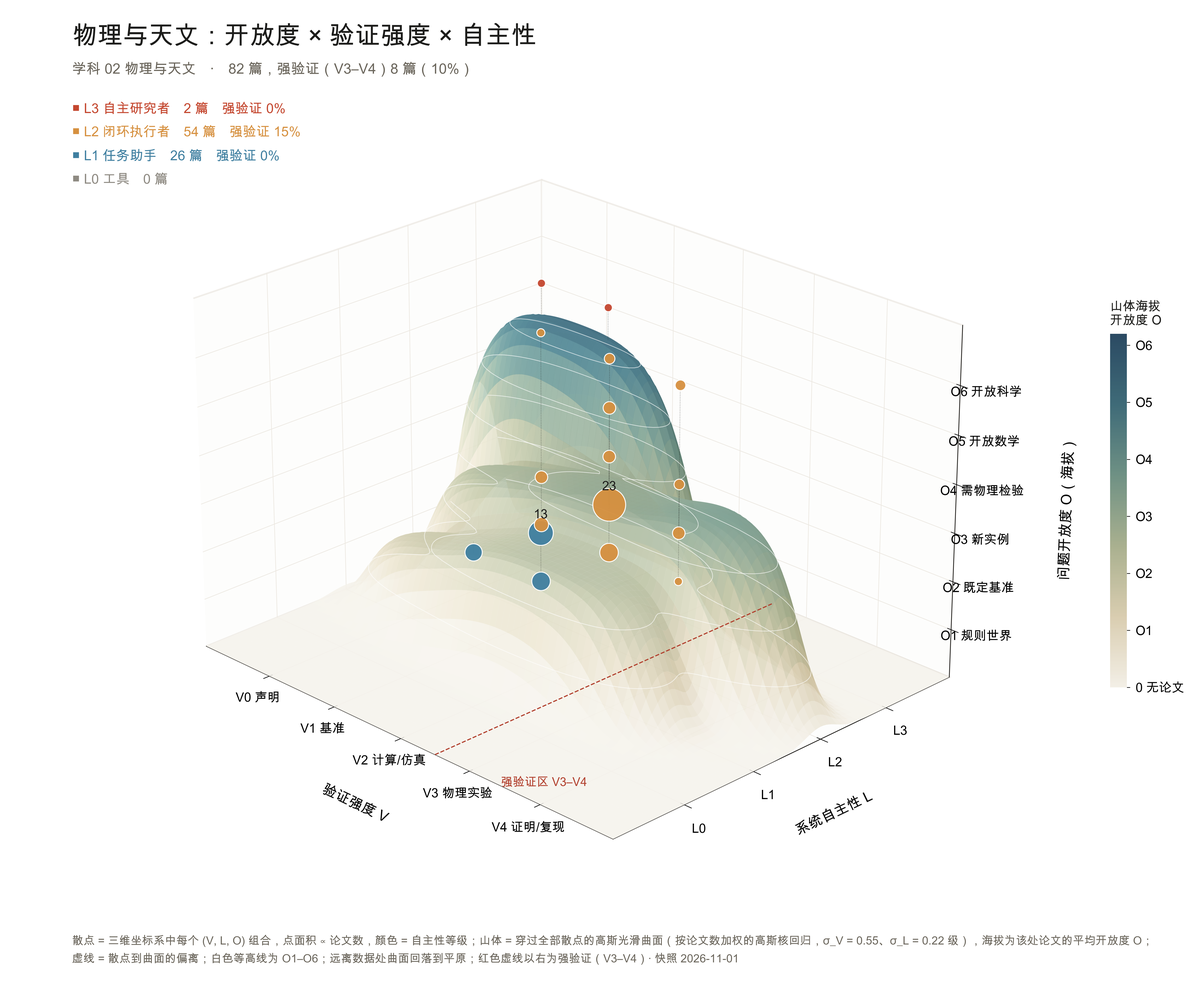
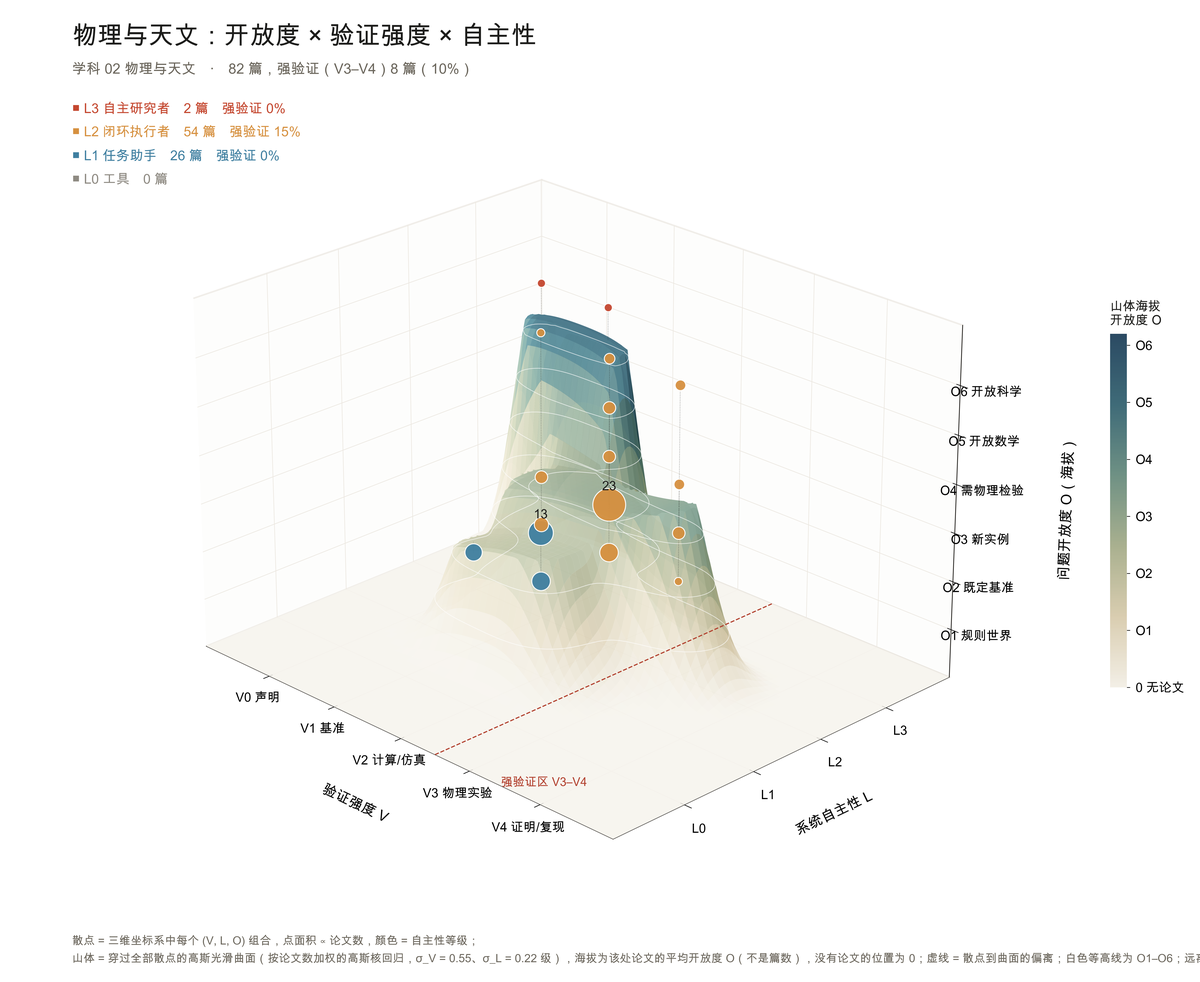
Mountain: no papers means altitude 0, everywhere
Height is mean openness, not a count, so it is undefined where a (V, L)
column has no papers. The surface is now kept only on the support of the
data: a smooth indicator that is 1 on every occupied column and falls
monotonically to ~0 one class away. Empty columns (e.g. L1 at V0 and V4),
all of L0 and the plain beyond V0-V4 therefore sit at 0, with no rebound.
Quantile bands are drawn only over columns with papers. Counts unchanged.

diff --git a/Autonomous Scientific Discovery/Coverage_Check/openness_verification_increment_2026-11-04/scripts/fig_ovl_surface.py b/Autonomous Scientific Discovery/Coverage_Check/openness_verification_increment_2026-11-04/scripts/fig_ovl_surface.py
@@ -55,21 +55,19 @@ def cells(pts):
 
 def height(cell, V, L):
     """The surface through the scatter: Gaussian-kernel (Nadaraya-Watson) mean openness over (V, L), each
-    (V, L, O) point weighted by its papers; far from the data it settles onto the plain at BASE."""
+    (V, L, O) point weighted by its papers; far from the data it settles onto the plain at BASE; empty columns and empty levels sit at BASE."""
     num = np.full(np.shape(V), W0 * BASE, float); den = np.full(np.shape(V), W0, float)
     for (v, l, o), c in cell.items():
         w = c * np.exp(-(V - v) ** 2 / (2 * SIG_S ** 2) - (L - l) ** 2 / (2 * SIG_L ** 2))
         num += w * o; den += w
     z = num / den
-    used = {l for _, l, _ in cell}
-    for e in set(range(4)) - used:                              # an autonomy level with no papers sits at 0,
-        dl = np.asarray(L, float) - e                           # and so does the side of it with no data
-        if all(l > e for l in used):
-            dl = np.clip(dl, 0, None)
-        elif all(l < e for l in used):
-            dl = np.clip(-dl, 0, None)
-        d = np.clip(np.abs(dl) / 0.7, 0, 1)
-        z = BASE + (z - BASE) * d * d * (3 - 2 * d)
+    # openness is undefined where there are no papers, so the height is kept only on the support of the
+    # data: a smooth indicator that is 1 on every occupied (V, L) column and falls monotonically to ~0 one
+    # class away, so empty columns, empty levels (L0) and the plain beyond V0-V4 all sit at 0
+    sup = np.zeros(np.shape(V), float)
+    for v, l in {(v, l) for v, l, _ in cell}:
+        sup += np.exp(-(np.asarray(V, float) - v) ** 2 / (2 * 0.5 ** 2) - (np.asarray(L, float) - l) ** 2 / (2 * 0.42 ** 2))
+    z = BASE + (z - BASE) * np.clip(sup, 0, 1) ** 2
     return z, den - W0
 
 
@@ -85,7 +83,7 @@ def quantiles(cell, L, x, qs=(0.25, 0.5, 0.75)):
     for k, xv in enumerate(x):
         w = np.array([c * np.exp(-(xv - v) ** 2 / (2 * SIG_S ** 2)) for v, o, c in row])
         wsum[k] = w.sum()
-        if w.sum() < 0.3:
+        if min(abs(xv - v) for v, _, _ in row) > 0.5:         # no band over columns without papers
             continue
         pdf = sum(wi * np.exp(-(og - o) ** 2 / (2 * QSIG ** 2)) for wi, (v, o, c) in zip(w, row))
         cdf = np.cumsum(pdf); cdf /= cdf[-1]
@@ -161,15 +159,15 @@ def surface_axes(ax, pts, small=False, cut=False, quant=False):
     ax.view_init(elev=24, azim=-45)
 
 
-FOOT = ("散点 = 三维坐标系中每个 (V, L, O) 组合，点面积 ∝ 论文数，颜色 = 自主性等级；山体 = 穿过全部散点的高斯光滑曲面"
-        "（按论文数加权的高斯核回归，σ_V = 0.55、σ_L = 0.22 级），海拔为该处论文的平均开放度 O；\n虚线 = 散点到曲面的偏离；白色等高线为 O1–O6；"
+FOOT = ("散点 = 三维坐标系中每个 (V, L, O) 组合，点面积 ∝ 论文数，颜色 = 自主性等级；\n山体 = 穿过全部散点的高斯光滑曲面"
+        "（按论文数加权的高斯核回归，σ_V = 0.55、σ_L = 0.22 级），海拔为该处论文的平均开放度 O（不是篇数），没有论文的位置为 0；虚线 = 散点到曲面的偏离；白色等高线为 O1–O6；"
         "远离数据处曲面回落到平原；红色虚线以右为强验证（V3–V4）· 快照 2026-11-01")
 FOOT_CUT = ("山体 = 穿过全部 (V, L, O) 散点的高斯光滑曲面（按论文数加权的高斯核回归，σ_V = 0.55、σ_L = 0.22 级），海拔为该处论文的平均开放度 O，"
-            "没有论文的自主性等级（L0）为 0；\n四条彩色线 = 山体表面上 L0–L3 处的等自主性线；线上数字 = 该 (V, L) 组合的论文数"
+            "没有论文的位置（含 L0 整条线）海拔为 0；\n四条彩色线 = 山体表面上 L0–L3 处的等自主性线；线上数字 = 该 (V, L) 组合的论文数"
             "（空心点 = 0 篇）；红色虚线以右为强验证（V3–V4）· 快照 2026-11-01")
 FOOT_Q = ("山体与彩色实线 = 按论文数加权的平均开放度（高斯核回归，σ_V = 0.55、σ_L = 0.22 级）；色带 = 同一自主性等级下开放度的 25%–75% 分位区间，"
           "虚线 = 中位数（每篇论文的 O 按 σ = 0.35 级平滑后取加权分位）；\n线上数字 = 该 (V, L) 组合的论文数（空心点 = 0 篇）；"
-          "L0 没有论文，海拔为 0；红色虚线以右为强验证（V3–V4）· 快照 2026-11-01")
+          "没有论文的位置（含 L0）海拔为 0；色带只画在有论文的位置；红色虚线以右为强验证（V3–V4）· 快照 2026-11-01")
 
 
 def colorbar(fig, rect, fs=8):

diff --git a/Autonomous Scientific Discovery/Figure_Set_2026-11-04/01_three_axes/mountain_surface_3d/white/fig_ovl_surface.py b/Autonomous Scientific Discovery/Figure_Set_2026-11-04/01_three_axes/mountain_surface_3d/white/fig_ovl_surface.py
@@ -55,21 +55,19 @@ def cells(pts):
 
 def height(cell, V, L):
     """The surface through the scatter: Gaussian-kernel (Nadaraya-Watson) mean openness over (V, L), each
-    (V, L, O) point weighted by its papers; far from the data it settles onto the plain at BASE."""
+    (V, L, O) point weighted by its papers; far from the data it settles onto the plain at BASE; empty columns and empty levels sit at BASE."""
     num = np.full(np.shape(V), W0 * BASE, float); den = np.full(np.shape(V), W0, float)
     for (v, l, o), c in cell.items():
         w = c * np.exp(-(V - v) ** 2 / (2 * SIG_S ** 2) - (L - l) ** 2 / (2 * SIG_L ** 2))
         num += w * o; den += w
     z = num / den
-    used = {l for _, l, _ in cell}
-    for e in set(range(4)) - used:                              # an autonomy level with no papers sits at 0,
-        dl = np.asarray(L, float) - e                           # and so does the side of it with no data
-        if all(l > e for l in used):
-            dl = np.clip(dl, 0, None)
-        elif all(l < e for l in used):
-            dl = np.clip(-dl, 0, None)
-        d = np.clip(np.abs(dl) / 0.7, 0, 1)
-        z = BASE + (z - BASE) * d * d * (3 - 2 * d)
+    # openness is undefined where there are no papers, so the height is kept only on the support of the
+    # data: a smooth indicator that is 1 on every occupied (V, L) column and falls monotonically to ~0 one
+    # class away, so empty columns, empty levels (L0) and the plain beyond V0-V4 all sit at 0
+    sup = np.zeros(np.shape(V), float)
+    for v, l in {(v, l) for v, l, _ in cell}:
+        sup += np.exp(-(np.asarray(V, float) - v) ** 2 / (2 * 0.5 ** 2) - (np.asarray(L, float) - l) ** 2 / (2 * 0.42 ** 2))
+    z = BASE + (z - BASE) * np.clip(sup, 0, 1) ** 2
     return z, den - W0
 
 
@@ -85,7 +83,7 @@ def quantiles(cell, L, x, qs=(0.25, 0.5, 0.75)):
     for k, xv in enumerate(x):
         w = np.array([c * np.exp(-(xv - v) ** 2 / (2 * SIG_S ** 2)) for v, o, c in row])
         wsum[k] = w.sum()
-        if w.sum() < 0.3:
+        if min(abs(xv - v) for v, _, _ in row) > 0.5:         # no band over columns without papers
             continue
         pdf = sum(wi * np.exp(-(og - o) ** 2 / (2 * QSIG ** 2)) for wi, (v, o, c) in zip(w, row))
         cdf = np.cumsum(pdf); cdf /= cdf[-1]
@@ -161,15 +159,15 @@ def surface_axes(ax, pts, small=False, cut=False, quant=False):
     ax.view_init(elev=24, azim=-45)
 
 
-FOOT = ("散点 = 三维坐标系中每个 (V, L, O) 组合，点面积 ∝ 论文数，颜色 = 自主性等级；山体 = 穿过全部散点的高斯光滑曲面"
-        "（按论文数加权的高斯核回归，σ_V = 0.55、σ_L = 0.22 级），海拔为该处论文的平均开放度 O；\n虚线 = 散点到曲面的偏离；白色等高线为 O1–O6；"
+FOOT = ("散点 = 三维坐标系中每个 (V, L, O) 组合，点面积 ∝ 论文数，颜色 = 自主性等级；\n山体 = 穿过全部散点的高斯光滑曲面"
+        "（按论文数加权的高斯核回归，σ_V = 0.55、σ_L = 0.22 级），海拔为该处论文的平均开放度 O（不是篇数），没有论文的位置为 0；虚线 = 散点到曲面的偏离；白色等高线为 O1–O6；"
         "远离数据处曲面回落到平原；红色虚线以右为强验证（V3–V4）· 快照 2026-11-01")
 FOOT_CUT = ("山体 = 穿过全部 (V, L, O) 散点的高斯光滑曲面（按论文数加权的高斯核回归，σ_V = 0.55、σ_L = 0.22 级），海拔为该处论文的平均开放度 O，"
-            "没有论文的自主性等级（L0）为 0；\n四条彩色线 = 山体表面上 L0–L3 处的等自主性线；线上数字 = 该 (V, L) 组合的论文数"
+            "没有论文的位置（含 L0 整条线）海拔为 0；\n四条彩色线 = 山体表面上 L0–L3 处的等自主性线；线上数字 = 该 (V, L) 组合的论文数"
             "（空心点 = 0 篇）；红色虚线以右为强验证（V3–V4）· 快照 2026-11-01")
 FOOT_Q = ("山体与彩色实线 = 按论文数加权的平均开放度（高斯核回归，σ_V = 0.55、σ_L = 0.22 级）；色带 = 同一自主性等级下开放度的 25%–75% 分位区间，"
           "虚线 = 中位数（每篇论文的 O 按 σ = 0.35 级平滑后取加权分位）；\n线上数字 = 该 (V, L) 组合的论文数（空心点 = 0 篇）；"
-          "L0 没有论文，海拔为 0；红色虚线以右为强验证（V3–V4）· 快照 2026-11-01")
+          "没有论文的位置（含 L0）海拔为 0；色带只画在有论文的位置；红色虚线以右为强验证（V3–V4）· 快照 2026-11-01")
 
 
 def colorbar(fig, rect, fs=8):

diff --git a/Autonomous Scientific Discovery/Figure_Set_2026-11-04/01_three_axes/mountain_surface_3d_by_field/white/fig_ovl_surface.py b/Autonomous Scientific Discovery/Figure_Set_2026-11-04/01_three_axes/mountain_surface_3d_by_field/white/fig_ovl_surface.py
@@ -55,21 +55,19 @@ def cells(pts):
 
 def height(cell, V, L):
     """The surface through the scatter: Gaussian-kernel (Nadaraya-Watson) mean openness over (V, L), each
-    (V, L, O) point weighted by its papers; far from the data it settles onto the plain at BASE."""
+    (V, L, O) point weighted by its papers; far from the data it settles onto the plain at BASE; empty columns and empty levels sit at BASE."""
     num = np.full(np.shape(V), W0 * BASE, float); den = np.full(np.shape(V), W0, float)
     for (v, l, o), c in cell.items():
         w = c * np.exp(-(V - v) ** 2 / (2 * SIG_S ** 2) - (L - l) ** 2 / (2 * SIG_L ** 2))
         num += w * o; den += w
     z = num / den
-    used = {l for _, l, _ in cell}
-    for e in set(range(4)) - used:                              # an autonomy level with no papers sits at 0,
-        dl = np.asarray(L, float) - e                           # and so does the side of it with no data
-        if all(l > e for l in used):
-            dl = np.clip(dl, 0, None)
-        elif all(l < e for l in used):
-            dl = np.clip(-dl, 0, None)
-        d = np.clip(np.abs(dl) / 0.7, 0, 1)
-        z = BASE + (z - BASE) * d * d * (3 - 2 * d)
+    # openness is undefined where there are no papers, so the height is kept only on the support of the
+    # data: a smooth indicator that is 1 on every occupied (V, L) column and falls monotonically to ~0 one
+    # class away, so empty columns, empty levels (L0) and the plain beyond V0-V4 all sit at 0
+    sup = np.zeros(np.shape(V), float)
+    for v, l in {(v, l) for v, l, _ in cell}:
+        sup += np.exp(-(np.asarray(V, float) - v) ** 2 / (2 * 0.5 ** 2) - (np.asarray(L, float) - l) ** 2 / (2 * 0.42 ** 2))
+    z = BASE + (z - BASE) * np.clip(sup, 0, 1) ** 2
     return z, den - W0
 
 
@@ -85,7 +83,7 @@ def quantiles(cell, L, x, qs=(0.25, 0.5, 0.75)):
     for k, xv in enumerate(x):
         w = np.array([c * np.exp(-(xv - v) ** 2 / (2 * SIG_S ** 2)) for v, o, c in row])
         wsum[k] = w.sum()
-        if w.sum() < 0.3:
+        if min(abs(xv - v) for v, _, _ in row) > 0.5:         # no band over columns without papers
             continue
         pdf = sum(wi * np.exp(-(og - o) ** 2 / (2 * QSIG ** 2)) for wi, (v, o, c) in zip(w, row))
         cdf = np.cumsum(pdf); cdf /= cdf[-1]
@@ -161,15 +159,15 @@ def surface_axes(ax, pts, small=False, cut=False, quant=False):
     ax.view_init(elev=24, azim=-45)
 
 
-FOOT = ("散点 = 三维坐标系中每个 (V, L, O) 组合，点面积 ∝ 论文数，颜色 = 自主性等级；山体 = 穿过全部散点的高斯光滑曲面"
-        "（按论文数加权的高斯核回归，σ_V = 0.55、σ_L = 0.22 级），海拔为该处论文的平均开放度 O；\n虚线 = 散点到曲面的偏离；白色等高线为 O1–O6；"
+FOOT = ("散点 = 三维坐标系中每个 (V, L, O) 组合，点面积 ∝ 论文数，颜色 = 自主性等级；\n山体 = 穿过全部散点的高斯光滑曲面"
+        "（按论文数加权的高斯核回归，σ_V = 0.55、σ_L = 0.22 级），海拔为该处论文的平均开放度 O（不是篇数），没有论文的位置为 0；虚线 = 散点到曲面的偏离；白色等高线为 O1–O6；"
         "远离数据处曲面回落到平原；红色虚线以右为强验证（V3–V4）· 快照 2026-11-01")
 FOOT_CUT = ("山体 = 穿过全部 (V, L, O) 散点的高斯光滑曲面（按论文数加权的高斯核回归，σ_V = 0.55、σ_L = 0.22 级），海拔为该处论文的平均开放度 O，"
-            "没有论文的自主性等级（L0）为 0；\n四条彩色线 = 山体表面上 L0–L3 处的等自主性线；线上数字 = 该 (V, L) 组合的论文数"
+            "没有论文的位置（含 L0 整条线）海拔为 0；\n四条彩色线 = 山体表面上 L0–L3 处的等自主性线；线上数字 = 该 (V, L) 组合的论文数"
             "（空心点 = 0 篇）；红色虚线以右为强验证（V3–V4）· 快照 2026-11-01")
 FOOT_Q = ("山体与彩色实线 = 按论文数加权的平均开放度（高斯核回归，σ_V = 0.55、σ_L = 0.22 级）；色带 = 同一自主性等级下开放度的 25%–75% 分位区间，"
           "虚线 = 中位数（每篇论文的 O 按 σ = 0.35 级平滑后取加权分位）；\n线上数字 = 该 (V, L) 组合的论文数（空心点 = 0 篇）；"
-          "L0 没有论文，海拔为 0；红色虚线以右为强验证（V3–V4）· 快照 2026-11-01")
+          "没有论文的位置（含 L0）海拔为 0；色带只画在有论文的位置；红色虚线以右为强验证（V3–V4）· 快照 2026-11-01")
 
 
 def colorbar(fig, rect, fs=8):

diff --git a/Autonomous Scientific Discovery/Figure_Set_2026-11-04/code/fig_ovl_surface.py b/Autonomous Scientific Discovery/Figure_Set_2026-11-04/code/fig_ovl_surface.py
@@ -55,21 +55,19 @@ def cells(pts):
 
 def height(cell, V, L):
     """The surface through the scatter: Gaussian-kernel (Nadaraya-Watson) mean openness over (V, L), each
-    (V, L, O) point weighted by its papers; far from the data it settles onto the plain at BASE."""
+    (V, L, O) point weighted by its papers; far from the data it settles onto the plain at BASE; empty columns and empty levels sit at BASE."""
     num = np.full(np.shape(V), W0 * BASE, float); den = np.full(np.shape(V), W0, float)
     for (v, l, o), c in cell.items():
         w = c * np.exp(-(V - v) ** 2 / (2 * SIG_S ** 2) - (L - l) ** 2 / (2 * SIG_L ** 2))
         num += w * o; den += w
     z = num / den
-    used = {l for _, l, _ in cell}
-    for e in set(range(4)) - used:                              # an autonomy level with no papers sits at 0,
-        dl = np.asarray(L, float) - e                           # and so does the side of it with no data
-        if all(l > e for l in used):
-            dl = np.clip(dl, 0, None)
-        elif all(l < e for l in used):
-            dl = np.clip(-dl, 0, None)
-        d = np.clip(np.abs(dl) / 0.7, 0, 1)
-        z = BASE + (z - BASE) * d * d * (3 - 2 * d)
+    # openness is undefined where there are no papers, so the height is kept only on the support of the
+    # data: a smooth indicator that is 1 on every occupied (V, L) column and falls monotonically to ~0 one
+    # class away, so empty columns, empty levels (L0) and the plain beyond V0-V4 all sit at 0
+    sup = np.zeros(np.shape(V), float)
+    for v, l in {(v, l) for v, l, _ in cell}:
+        sup += np.exp(-(np.asarray(V, float) - v) ** 2 / (2 * 0.5 ** 2) - (np.asarray(L, float) - l) ** 2 / (2 * 0.42 ** 2))
+    z = BASE + (z - BASE) * np.clip(sup, 0, 1) ** 2
     return z, den - W0
 
 
@@ -85,7 +83,7 @@ def quantiles(cell, L, x, qs=(0.25, 0.5, 0.75)):
     for k, xv in enumerate(x):
         w = np.array([c * np.exp(-(xv - v) ** 2 / (2 * SIG_S ** 2)) for v, o, c in row])
         wsum[k] = w.sum()
-        if w.sum() < 0.3:
+        if min(abs(xv - v) for v, _, _ in row) > 0.5:         # no band over columns without papers
             continue
         pdf = sum(wi * np.exp(-(og - o) ** 2 / (2 * QSIG ** 2)) for wi, (v, o, c) in zip(w, row))
         cdf = np.cumsum(pdf); cdf /= cdf[-1]
@@ -161,15 +159,15 @@ def surface_axes(ax, pts, small=False, cut=False, quant=False):
     ax.view_init(elev=24, azim=-45)
 
 
-FOOT = ("散点 = 三维坐标系中每个 (V, L, O) 组合，点面积 ∝ 论文数，颜色 = 自主性等级；山体 = 穿过全部散点的高斯光滑曲面"
-        "（按论文数加权的高斯核回归，σ_V = 0.55、σ_L = 0.22 级），海拔为该处论文的平均开放度 O；\n虚线 = 散点到曲面的偏离；白色等高线为 O1–O6；"
+FOOT = ("散点 = 三维坐标系中每个 (V, L, O) 组合，点面积 ∝ 论文数，颜色 = 自主性等级；\n山体 = 穿过全部散点的高斯光滑曲面"
+        "（按论文数加权的高斯核回归，σ_V = 0.55、σ_L = 0.22 级），海拔为该处论文的平均开放度 O（不是篇数），没有论文的位置为 0；虚线 = 散点到曲面的偏离；白色等高线为 O1–O6；"
         "远离数据处曲面回落到平原；红色虚线以右为强验证（V3–V4）· 快照 2026-11-01")
 FOOT_CUT = ("山体 = 穿过全部 (V, L, O) 散点的高斯光滑曲面（按论文数加权的高斯核回归，σ_V = 0.55、σ_L = 0.22 级），海拔为该处论文的平均开放度 O，"
-            "没有论文的自主性等级（L0）为 0；\n四条彩色线 = 山体表面上 L0–L3 处的等自主性线；线上数字 = 该 (V, L) 组合的论文数"
+            "没有论文的位置（含 L0 整条线）海拔为 0；\n四条彩色线 = 山体表面上 L0–L3 处的等自主性线；线上数字 = 该 (V, L) 组合的论文数"
             "（空心点 = 0 篇）；红色虚线以右为强验证（V3–V4）· 快照 2026-11-01")
 FOOT_Q = ("山体与彩色实线 = 按论文数加权的平均开放度（高斯核回归，σ_V = 0.55、σ_L = 0.22 级）；色带 = 同一自主性等级下开放度的 25%–75% 分位区间，"
           "虚线 = 中位数（每篇论文的 O 按 σ = 0.35 级平滑后取加权分位）；\n线上数字 = 该 (V, L) 组合的论文数（空心点 = 0 篇）；"
-          "L0 没有论文，海拔为 0；红色虚线以右为强验证（V3–V4）· 快照 2026-11-01")
+          "没有论文的位置（含 L0）海拔为 0；色带只画在有论文的位置；红色虚线以右为强验证（V3–V4）· 快照 2026-11-01")
 
 
 def colorbar(fig, rect, fs=8):

diff --git a/Autonomous Scientific Discovery/Figure_Set_2026-11-04/code/package_spec.py b/Autonomous Scientific Discovery/Figure_Set_2026-11-04/code/package_spec.py
@@ -61,8 +61,9 @@ TREE = [
                   "L0–L3 (right) and problem openness O1–O6 (up). Point area is proportional to papers and colour gives "
                   "the autonomy level. The mountain is the Gaussian-smooth surface through all the points, a paper-"
                   "weighted Gaussian-kernel regression of openness over (V, L) (σ = 0.55 class steps along V and 0.22 "
-                  "along L, so each autonomy level keeps its own mean). The colour bar gives altitude, and L0, which "
-                  "has no papers, sits at 0. The line view draws the L0–L3 lines on the surface and labels each (V, L) "
+                  "along L, so each autonomy level keeps its own mean). The colour bar gives altitude. Height is mean "
+                  "openness, not a count, so wherever there are no papers (every empty (V, L) column, all of L0 and the "
+                  "plain beyond V0–V4) it sits at 0. The line view draws the L0–L3 lines on the surface and labels each (V, L) "
                   "column with its paper count, hollow dots marking 0. Because a mean surface hides the spread, the "
                   "quantile view adds each level's 25–75% openness band and median. The floor right of the dashed "
                   "line is strong verification (V3–V4).",

diff --git a/Autonomous Scientific Discovery/Figure_Set_2026-11-04/01_three_axes/mountain_surface_3d/README.md b/Autonomous Scientific Discovery/Figure_Set_2026-11-04/01_three_axes/mountain_surface_3d/README.md
@@ -3,7 +3,7 @@
 **Classification:** content `01_three_axes` › form `mountain_surface_3d`
 
 ## Caption
-Every (V, L, O) combination is a point in the three-axis space: verification V0–V4 (front), autonomy L0–L3 (right) and problem openness O1–O6 (up). Point area is proportional to papers and colour gives the autonomy level. The mountain is the Gaussian-smooth surface through all the points, a paper-weighted Gaussian-kernel regression of openness over (V, L) (σ = 0.55 class steps along V and 0.22 along L, so each autonomy level keeps its own mean). The colour bar gives altitude, and L0, which has no papers, sits at 0. The line view draws the L0–L3 lines on the surface and labels each (V, L) column with its paper count, hollow dots marking 0. Because a mean surface hides the spread, the quantile view adds each level's 25–75% openness band and median. The floor right of the dashed line is strong verification (V3–V4).
+Every (V, L, O) combination is a point in the three-axis space: verification V0–V4 (front), autonomy L0–L3 (right) and problem openness O1–O6 (up). Point area is proportional to papers and colour gives the autonomy level. The mountain is the Gaussian-smooth surface through all the points, a paper-weighted Gaussian-kernel regression of openness over (V, L) (σ = 0.55 class steps along V and 0.22 along L, so each autonomy level keeps its own mean). The colour bar gives altitude. Height is mean openness, not a count, so wherever there are no papers (every empty (V, L) column, all of L0 and the plain beyond V0–V4) it sits at 0. The line view draws the L0–L3 lines on the surface and labels each (V, L) column with its paper count, hollow dots marking 0. Because a mean surface hides the spread, the quantile view adds each level's 25–75% openness band and median. The floor right of the dashed line is strong verification (V3–V4).
 
 ## How it is generated
 fig_ovl_surface.py (matplotlib mplot3d; Nadaraya–Watson surface); every count is in derived/ovl_cube_counts.csv. Scripts: `fig_ovl_surface.py` (run from `code/`).

diff --git a/Autonomous Scientific Discovery/Figure_Set_2026-11-04/01_three_axes/mountain_surface_3d/white/README.md b/Autonomous Scientific Discovery/Figure_Set_2026-11-04/01_three_axes/mountain_surface_3d/white/README.md
@@ -13,7 +13,7 @@ White background.
 - `ovl_cube_counts.csv`
 
 ## Caption
-Every (V, L, O) combination is a point in the three-axis space: verification V0–V4 (front), autonomy L0–L3 (right) and problem openness O1–O6 (up). Point area is proportional to papers and colour gives the autonomy level. The mountain is the Gaussian-smooth surface through all the points, a paper-weighted Gaussian-kernel regression of openness over (V, L) (σ = 0.55 class steps along V and 0.22 along L, so each autonomy level keeps its own mean). The colour bar gives altitude, and L0, which has no papers, sits at 0. The line view draws the L0–L3 lines on the surface and labels each (V, L) column with its paper count, hollow dots marking 0. Because a mean surface hides the spread, the quantile view adds each level's 25–75% openness band and median. The floor right of the dashed line is strong verification (V3–V4).
+Every (V, L, O) combination is a point in the three-axis space: verification V0–V4 (front), autonomy L0–L3 (right) and problem openness O1–O6 (up). Point area is proportional to papers and colour gives the autonomy level. The mountain is the Gaussian-smooth surface through all the points, a paper-weighted Gaussian-kernel regression of openness over (V, L) (σ = 0.55 class steps along V and 0.22 along L, so each autonomy level keeps its own mean). The colour bar gives altitude. Height is mean openness, not a count, so wherever there are no papers (every empty (V, L) column, all of L0 and the plain beyond V0–V4) it sits at 0. The line view draws the L0–L3 lines on the surface and labels each (V, L) column with its paper count, hollow dots marking 0. Because a mean surface hides the spread, the quantile view adds each level's 25–75% openness band and median. The floor right of the dashed line is strong verification (V3–V4).
 
 ## Regenerate
 ```bash

diff --git a/Autonomous Scientific Discovery/Coverage_Check/openness_verification_increment_2026-11-04/README.md b/Autonomous Scientific Discovery/Coverage_Check/openness_verification_increment_2026-11-04/README.md
@@ -55,7 +55,7 @@
 | 文件 | 内容 |
 |---|---|
 | `fig_axes3d_curtains.png` | 自主性 × 验证强度三维帘幕：每个 L 级一面墙，曲线为达到各 V 级及以上的占比，★ 为强验证（V3–V4）占比 |
-| `fig_ovl_surface.png` | 三维散点与山体：每个 (V, L, O) 组合是三维坐标系中的一个点（面积 ∝ 论文数，颜色 = 自主性）；山体为穿过全部散点的高斯光滑曲面（按论文数加权的高斯核回归），海拔为平均开放度 O，色标给出海拔；L0 无论文，海拔为 0 |
+| `fig_ovl_surface.png` | 三维散点与山体：每个 (V, L, O) 组合是三维坐标系中的一个点（面积 ∝ 论文数，颜色 = 自主性）；山体为穿过全部散点的高斯光滑曲面（按论文数加权的高斯核回归），海拔为平均开放度 O（不是篇数），色标给出海拔；没有论文的位置（空的 (V, L) 组合、L0 整条线、V0–V4 以外）海拔为 0 |
 | `fig_ovl_surface_cut.png` | 同一山体上直接画出 L0–L3 四条线，每个 (V, L) 交点标注论文数（空心点 = 0 篇） |
 | `fig_ovl_surface_quantiles.png` | 在四条线上加每个自主性等级开放度的 25%–75% 分位色带与中位数虚线，展示均值之外的分布 |
 | `fig_ovl_surface_fields.png` | 散点与山体按 11 个学科分面（另含全部） |
